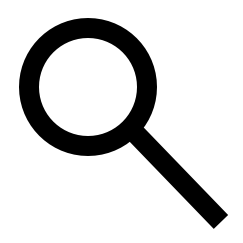
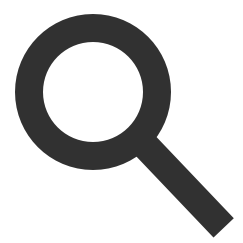
finish first preview: sidebar improvmenets; index.php sekeleton; placeholder image and first search integration

Changed region(s): [[0.0576, 0.0576, 0.9794, 0.9794]]

diff --git a/wp-content/themes/amani_theme/style.css b/wp-content/themes/amani_theme/style.css
@@ -76,7 +76,7 @@ body
 	background-color: #F2F2F2;
 	color: #252525;
 	/*<TODO> responsive: tempor*/
-	min-width: 500px;
+	min-width: 600px;
 
 	font-family: 'Open Sans';
 	font-weight: 400;
@@ -93,6 +93,13 @@ body
 .mainWrapper {
 	background-color: white;
 	overflow: hidden;
+}
+.searchWrapper {
+	position: absolute;
+	left: 50%;
+    transform: translate(-50%, -50%);
+ 	top: 50px;
+ 	text-align: right;
 }
 a {
 	color: inherit;
@@ -133,7 +140,7 @@ a {
 /********** HEADER & MENU *********/
 
 header {
-	margin-top: 50px;
+	margin-top: 25px;
 	text-align: center;
 }
 header .logoItem {
@@ -164,7 +171,7 @@ header .logoDescription {
 	color: #A80319;	
 	text-transform: uppercase;
 	margin-top: 10px;
-	margin-bottom: 50px;
+	margin-bottom: 35px;
 }
 
 .smallHeader  {
@@ -180,10 +187,11 @@ header .logoDescription {
 	display: none;
 }
 
+
+
 nav {
 	margin-top: 10px;
 	overflow: hidden;
-//	font-family: 'Source Sans Pro';
 }
 nav  ul {
 	list-style: none;
@@ -197,15 +205,12 @@ nav  ul {
 nav li {
 	display: inline-block;
 	width: 16.666%;
-	height: 100%;
-	padding: 0 0%;
 	font-size: 17px;
-	letter-spacing: -0.7px;
+	letter-spacing: -0.3px;
 	font-weight: 600;
-	color: rgb(37, 37, 37);
-	vertical-align: top;
+	color: #313131;
 
-	border-bottom: solid 6px #EB9B00;
+	border-bottom: solid 5px #EB9B00;
 
 	transition:border 0.5s ease; /* explorer 10 */
 	-webkit-transition:border 0.5s ease; /* chrome & safari */
@@ -224,7 +229,7 @@ nav li:last-child {
 nav li:hover {
 	border-bottom-color:#A80319;
 }
-nav .current-menu-item {
+nav .current-menu-item, nav .current-page-ancestor, nav .current_page_parent {
 	border-bottom-color:#A80319;
 }
 
@@ -269,7 +274,7 @@ nav .current-menu-item {
 /********** Page Style *********/
 
 .pageStyle {
-	font-size: 1em;
+	font-size: 0.95em;
 }
 .pageStyle h1, .pageStyle h2 {
 	color: #A80319;
@@ -309,16 +314,17 @@ nav .current-menu-item {
 	font-size: 90%;
 	font-weight: 600;
 }
+.wp-caption-dt, .wp-caption-dd, .wp-caption-text {
+	padding-right: 10px;
+}
 .aligncenter .wp-caption-text, .aligncenter .wp-caption-dt, .aligncenter .wp-caption-dd{
 	text-align: center;
 }
 .alignleft .wp-caption-text, .alignleft .wp-caption-dt, .alignleft .wp-caption-dd{
 	text-align: left;
-	padding-right: 10px;
 }
 .alignright .wp-caption-text, .alignright .wp-caption-dt, .alignright .wp-caption-dd{
 	text-align: right;
-	padding-right: 10px;
 }
 
 
@@ -327,6 +333,7 @@ nav .current-menu-item {
 
 .sideBarPageTree li{
 	list-style: none;
+	font-size: 0.97em;
 }
 .sideBarPageTree a {
 	text-decoration: none;
@@ -334,13 +341,13 @@ nav .current-menu-item {
 
 .sideBarPageTree .page_item {
 	border-bottom: 1px solid #979797;
-	padding: 7px 0px;
+	padding: 6px 0px;
 	display: block;
 	width: 100%;
 }
 .sideBarPageTree .children {
 	border-top: 1px solid #979797;
-	margin-top: 7px;
+	margin-top: 0px;
 }	
 
 .sideBarPageTree .page_item_has_children {
@@ -352,13 +359,12 @@ nav .current-menu-item {
 }
 .sideBarPageTree > .page_item > a{
 	font-size: 120%;
-	font-weight: 600;
 	color: #A80319;	
 	width: 100%;
 	display: block;
 }
 .sideBarPageTree .current_page_item > a {
-	font-weight: 600;
+	font-weight: 800;
 }
 
 
@@ -388,7 +394,7 @@ nav .current-menu-item {
 footer {
 	height: 30px;
 	line-height: 30px;
-	border-bottom:solid 5px #EB9B00;
+	border-bottom:solid 3px #EB9B00;
 	background-color: white;
 	text-align: center;
 	font-size: 14px;

diff --git a/wp-content/themes/amani_theme/index.php b/wp-content/themes/amani_theme/index.php
@@ -1,73 +1,47 @@
 
-
-
-
 <?php get_header(); ?>
 
-<div class="contentWrapper mainWrapper" style="height:1000px;">
-<img src="<?php bloginfo('template_url') ?>/img/placeholder.png" style="width:100%;"/>
+
+<div class="contentWrapper mainWrapper">
+     <div class="xColumnView">
+        <aside class="sideBarViewItem sideBarPageTree">
+
+        	<li class="page_item page_item_has_children current_page_item">
+        		<a href="#">Aktuelle Berichte</a>
+                <ul class="children">
+                    <?php 
+                    //custom loop for news
+                    $current = get_the_title();
+                    $args = array( 'posts_per_page' => get_field('news_item_count'), 'orderby' => 'date' , 'order'   => 'DESC');
+                    $loop = new WP_Query($args);
+                        while( $loop->have_posts() ) : 
+                            $loop->the_post(); 
+                            if(strcmp($current,get_the_title())==0) $current_item = "current_page_item";
+                            else $current_item = "";?>
+                    <li class="page_item <?php echo $current_item; ?>">
+                        <a href="<?php the_permalink(); ?>"><?php the_title();?></a>
+                    </li><?php  
+                        endwhile;
+                        wp_reset_query();
+                    ?>
+                </ul>
+			</li>
+        	<li class="page_item page_item_has_children">
+        		<a href="#">Archiv</a>
+        		<ul class="children">
+        		</ul>
+			</li>
+
+        </aside>
+        <article class="pageContentViewItem <?php if(count($pages)==0) echo " oneColumnViewItem "; ?>pageStyle">
+            <h1><?php wp_reset_query(); the_title(); ?></h1>
+            <?php the_content(); ?>
+         </article>
+     </div>
+ </div>
 
 
 
 
-<div id="container">
- 
-    <div id="content">
-		<?php /* Top post navigation */ ?>
-		<?php global $wp_query; $total_pages = $wp_query->max_num_pages; if ( $total_pages > 1 ) { ?>
 
-		<?php } ?>
-		
-		<?php /* The Loop — with comments! */ ?>
-		<?php while ( have_posts() ) : the_post() ?>
-
-		<?php /* Create a div with a unique ID thanks to the_ID() and semantic classes with post_class() */ ?>
-		                <div id="post-<?php the_ID(); ?>" <?php post_class(); ?>>
-		<?php /* an h2 title */ ?>
-		                    <h2 class="entry-title"><a href="<?php the_permalink(); ?>" title="<?php printf( __('Permalink to %s', 'hbd-theme'), the_title_attribute('echo=0') ); ?>" rel="bookmark"><?php the_title(); ?></a></h2>
-
-		<?php /* Microformatted, translatable post meta */ ?>
-		                    <div class="entry-meta">
-		                        <span class="meta-prep meta-prep-author"><?php _e('By ', 'hbd-theme'); ?></span>
-		                        <span class="author vcard"><a class="url fn n" href="<?php echo get_author_link( false, $authordata->ID, $authordata->user_nicename ); ?>" title="<?php printf( __( 'View all posts by %s', 'hbd-theme' ), $authordata->display_name ); ?>"><?php the_author(); ?></a></span>
-		                        <span class="meta-sep"> | </span>
-		                        <span class="meta-prep meta-prep-entry-date"><?php _e('Published ', 'hbd-theme'); ?></span>
-		                        <span class="entry-date"><abbr class="published" title="<?php the_time('Y-m-d\TH:i:sO') ?>"><?php the_time( get_option( 'date_format' ) ); ?></abbr></span>
-		                        <?php edit_post_link( __( 'Edit', 'hbd-theme' ), "<span class=\"meta-sep\">|</span>\n\t\t\t\t\t\t<span class=\"edit-link\">", "</span>\n\t\t\t\t\t" ) ?>
-		                    </div><!-- .entry-meta -->
-
-		<?php /* The entry content */ ?>
-		                    <div class="entry-content">
-		<?php the_content( __( 'Continue reading <span class="meta-nav">&raquo;</span>', 'hbd-theme' )  ); ?>
-		<?php wp_link_pages('before=<div class="page-link">' . __( 'Pages:', 'hbd-theme' ) . '&after=</div>') ?>
-		                    </div><!-- .entry-content -->
-
-		<?php /* Microformatted category and tag links along with a comments link */ ?>
-		                    <div class="entry-utility">
-		                        <span class="cat-links"><span class="entry-utility-prep entry-utility-prep-cat-links"><?php _e( 'Posted in ', 'hbd-theme' ); ?></span><?php echo get_the_category_list(', '); ?></span>
-		                        <span class="meta-sep"> | </span>
-		                        <?php the_tags( '<span class="tag-links"><span class="entry-utility-prep entry-utility-prep-tag-links">' . __('Tagged ', 'hbd-theme' ) . '</span>', ", ", "</span>\n\t\t\t\t\t\t<span class=\"meta-sep\">|</span>\n" ) ?>
-		                        <span class="comments-link"><?php comments_popup_link( __( 'Leave a comment', 'hbd-theme' ), __( '1 Comment', 'hbd-theme' ), __( '% Comments', 'hbd-theme' ) ) ?></span>
-		                        <?php edit_post_link( __( 'Edit', 'hbd-theme' ), "<span class=\"meta-sep\">|</span>\n\t\t\t\t\t\t<span class=\"edit-link\">", "</span>\n\t\t\t\t\t\n" ) ?>
-		                    </div><!-- #entry-utility -->
-		                </div><!-- #post-<?php the_ID(); ?> -->
-
-		<?php /* Close up the post div and then end the loop with endwhile */ ?>      
-
-		<?php endwhile; ?>
-		
-		<?php /* Bottom post navigation */ ?>
-		<?php global $wp_query; $total_pages = $wp_query->max_num_pages; if ( $total_pages > 1 ) { ?>
-		                <div id="nav-below" class="navigation">
-		                    <?php next_posts_link(__( '<span class="meta-nav">&laquo;</span> Older posts', 'hbd-theme' )) ?> <span style="color: #bbb;">&#8226;</span> <?php previous_posts_link(__( 'Newer posts <span class="meta-nav">&raquo;</span>', 'hbd-theme' )) ?>
-		                </div><!-- #nav-below -->
-		<?php } ?>
-    </div><!-- #content -->
-
-	<?php get_sidebar(); ?>
- 
-</div><!-- #container -->
-</div>
-
- 
 <?php get_footer(); ?>

diff --git a/wp-content/themes/amani_theme/header.php b/wp-content/themes/amani_theme/header.php
@@ -13,10 +13,27 @@
     <meta http-equiv="content-type" content="<?php bloginfo('html_type'); ?>; charset=<?php bloginfo('charset'); ?>" />
  
     <link rel="stylesheet" type="text/css" href="<?php bloginfo('stylesheet_url'); ?>" />
- 
+    <link rel="stylesheet" href="https://maxcdn.bootstrapcdn.com/font-awesome/4.4.0/css/font-awesome.min.css">
+
     <link rel="alternate" type="application/rss+xml" href="<?php bloginfo('rss2_url'); ?>" title="<?php printf( __( '%s latest posts', 'hbd-theme' ), wp_specialchars( get_bloginfo('name'), 1 ) ); ?>" />
     <link rel="alternate" type="application/rss+xml" href="<?php bloginfo('comments_rss2_url') ?>" title="<?php printf( __( '%s latest comments', 'hbd-theme' ), wp_specialchars( get_bloginfo('name'), 1 ) ); ?>" />
     <link rel="pingback" href="<?php bloginfo('pingback_url'); ?>" />
+
+    <link rel="apple-touch-icon" sizes="57x57" href="<?php bloginfo('template_url')?>/img/favicons/apple-icon-57x57.png">
+    <link rel="apple-touch-icon" sizes="60x60" href="<?php bloginfo('template_url')?>/img/favicons/apple-icon-60x60.png">
+    <link rel="apple-touch-icon" sizes="72x72" href="<?php bloginfo('template_url')?>/img/favicons/apple-icon-72x72.png">
+    <link rel="apple-touch-icon" sizes="76x76" href="<?php bloginfo('template_url')?>/img/favicons/apple-icon-76x76.png">
+    <link rel="apple-touch-icon" sizes="114x114" href="<?php bloginfo('template_url')?>/img/favicons/apple-icon-114x114.png">
+    <link rel="apple-touch-icon" sizes="120x120" href="<?php bloginfo('template_url')?>/img/favicons/apple-icon-120x120.png">
+    <link rel="apple-touch-icon" sizes="144x144" href="<?php bloginfo('template_url')?>/img/favicons/apple-icon-144x144.png">
+    <link rel="apple-touch-icon" sizes="152x152" href="<?php bloginfo('template_url')?>/img/favicons/apple-icon-152x152.png">
+    <link rel="apple-touch-icon" sizes="180x180" href="<?php bloginfo('template_url')?>/img/favicons/apple-icon-180x180.png">
+    <link rel="icon" type="image/png" sizes="192x192"  href="<?php bloginfo('template_url')?>/img/favicons/android-icon-192x192.png">
+    <link rel="icon" type="image/png" sizes="32x32" href="<?php bloginfo('template_url')?>/img/favicons/favicon-32x32.png">
+    <link rel="icon" type="image/png" sizes="96x96" href="<?php bloginfo('template_url')?>/img/favicons/favicon-96x96.png">
+    <link rel="icon" type="image/png" sizes="16x16" href="<?php bloginfo('template_url')?>/img/favicons/favicon-16x16.png">
+
+
 </head>
 <body>
 

diff --git a/wp-content/themes/amani_theme/single.php b/wp-content/themes/amani_theme/single.php
@@ -1,28 +1,47 @@
-<?php get_header(); ?>
-<?php the_post(); ?>
 
- <div class="contentWrapper mainWrapper">
+<?php get_header(); ?>
+
+
+<div class="contentWrapper mainWrapper">
      <div class="xColumnView">
-         <aside class="sideBarViewItem">
-         <ul><li>TODO - Parent Page Link</li></ul>
-            <?php 
-                if($post->post_parent)
-                    $children = wp_list_pages("title_li=&child_of=".$post->post_parent."&echo=0");
-                else
-                    $children = wp_list_pages("title_li=&child_of=".$post->ID."&echo=0");
-                if ($children) { ?>
-                <ul>
-                <?php echo $children; ?>
+        <aside class="sideBarViewItem sideBarPageTree">
+
+            <li class="page_item page_item_has_children current_page_item">
+                <a href="#">Aktuelle Berichte</a>
+                <ul class="children">
+                    <?php 
+                    //custom loop for news
+                    $current = get_the_title();
+                    $args = array( 'posts_per_page' => get_field('news_item_count'), 'orderby' => 'date' , 'order'   => 'DESC');
+                    $loop = new WP_Query($args);
+                        while( $loop->have_posts() ) : 
+                            $loop->the_post(); 
+                            if(strcmp($current,get_the_title())==false) $current_item = "current_page_item";
+                            else $current_item = "";?>
+                    <li class="page_item <?php echo $current_item; ?>">
+                        <a href="<?php the_permalink(); ?>"><?php the_title();?></a>
+                    </li><?php  
+                        endwhile;
+                        wp_reset_query();
+                    ?>
                 </ul>
-                <?php } 
-            ?>
-         </aside>
-         <article class="pageContentViewItem pageStyle">
-            <h1><?php the_title(); ?></h1>
+            </li>
+            <li class="page_item page_item_has_children">
+                <a href="#" onclick="alert('TODO');">Archiv</a>
+                <ul class="children">
+                </ul>
+            </li>
+
+        </aside>
+        <article class="pageContentViewItem <?php if(count($pages)==0) echo " oneColumnViewItem "; ?>pageStyle">
+            <h1><?php wp_reset_query(); the_title(); ?></h1>
             <?php the_content(); ?>
          </article>
      </div>
-      
-
  </div>
+
+
+
+
+
 <?php get_footer(); ?>

diff --git a/wp-content/themes/amani_theme/landing_page.php b/wp-content/themes/amani_theme/landing_page.php
@@ -3,11 +3,11 @@
 Template Name: Startseite
 */?>
 
-
-
-
-
 <?php get_header(); ?>
+
+<div class="contentWrapper searchWrapper">
+	<img id="searchIcon" src="<?php bloginfo('template_url') ?>/img/search.png" height="20" width="20"/>
+</div>
 
 <div class="contentWrapper mainWrapper">
 	<?php the_post(); ?>
